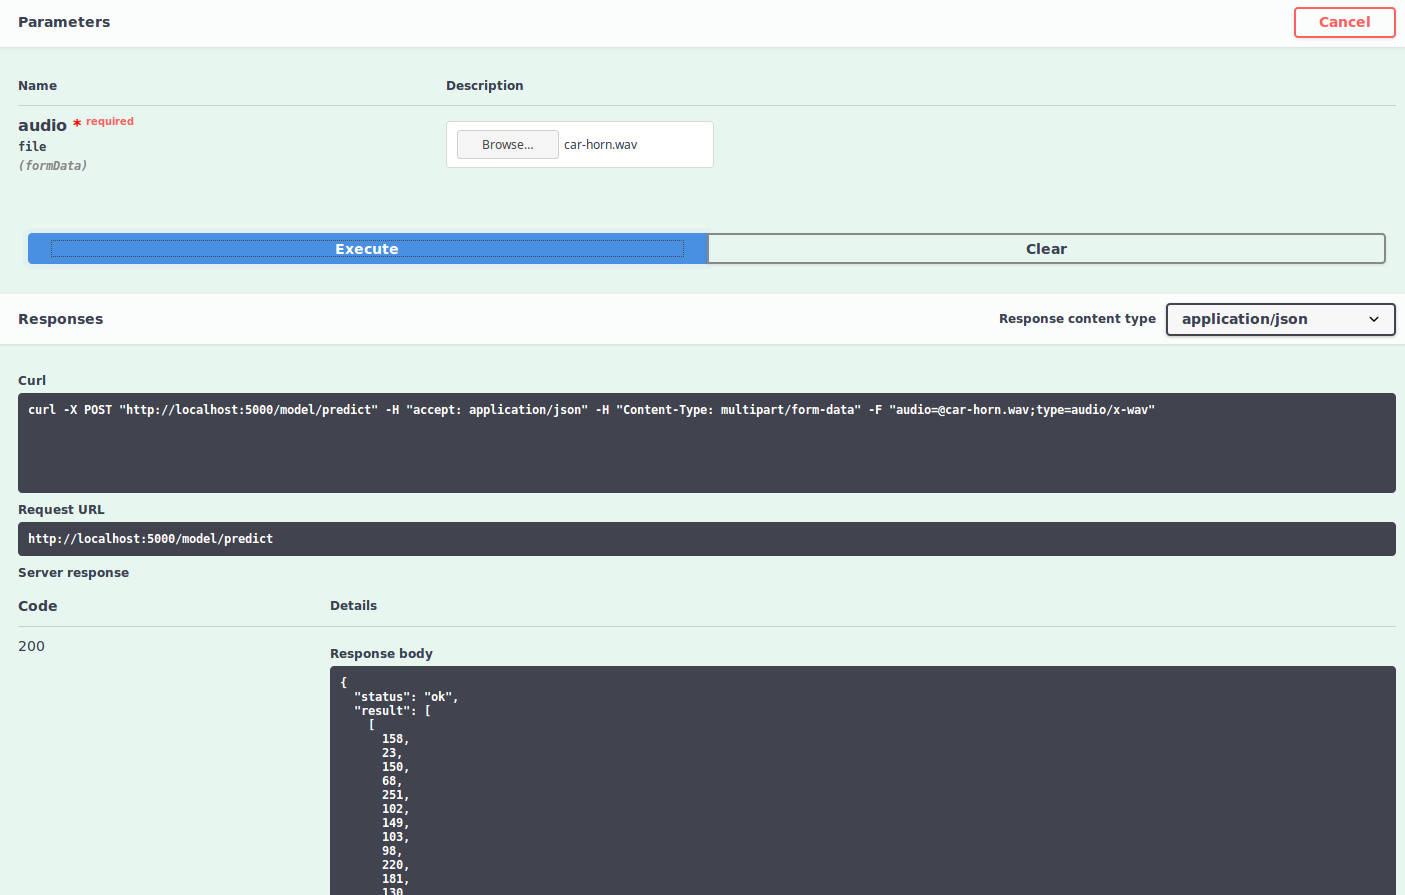
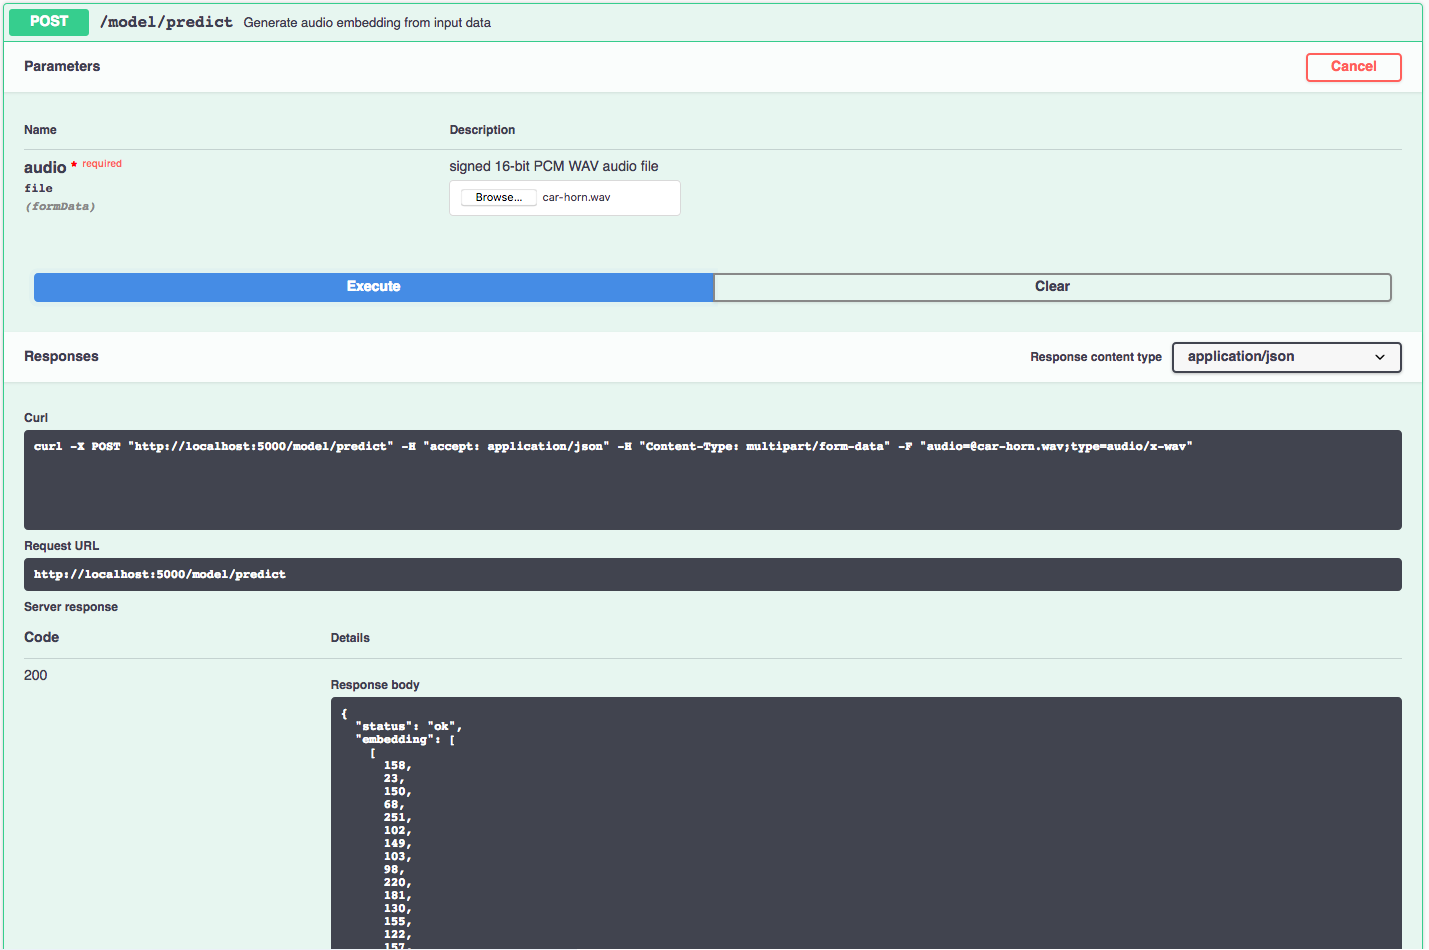
added request param descriptions and added requirements.txt (#15)
* added request param descriptions and added requirements.txt
resolves #10, resolves #12

* clean up swagger output format

* update docs to match new output format

diff --git a/api/model.py b/api/model.py
@@ -1,12 +1,9 @@
 from flask_restplus import Namespace, Resource, fields
 from werkzeug.datastructures import FileStorage
 from werkzeug.exceptions import BadRequest
-
 from config import MODEL_META_DATA
-
 from core.backend import ModelWrapper
 import os
-import numpy as np
 
 api = Namespace('model', description='Model information and inference operations')
 
@@ -26,18 +23,16 @@ class Model(Resource):
         """Return the metadata associated with the model"""
         return MODEL_META_DATA
 
-label_prediction = api.model('LabelPrediction', {
-    'embedding': fields.List(fields.List(fields.Float,required=True))
-})
 
 predict_response = api.model('ModelPredictResponse', {
     'status': fields.String(required=True, description='Response status message'),
-    'predictions': fields.List(fields.Nested(label_prediction), description='Predicted labels and probabilities')
+    'embedding': fields.List(fields.List(fields.Float, required=True, description="Generated embedding"))
 })
 
 # set up parser for audio input data
 audio_parser = api.parser()
-audio_parser.add_argument('audio', type=FileStorage, location='files', required=True)
+audio_parser.add_argument('audio', type=FileStorage, location='files', required=True,
+                          help="signed 16-bit PCM WAV audio file")
 
 
 @api.route('/predict')
@@ -48,7 +43,7 @@ class Predict(Resource):
     @api.expect(audio_parser)
     @api.marshal_with(predict_response)
     def post(self):
-        """Predict audio classes from input data"""
+        """Generate audio embedding from input data"""
         result = {'status': 'error'}
 
         args = audio_parser.parse_args()
@@ -58,7 +53,7 @@ class Predict(Resource):
         if os.path.exists("/audio.wav"):
             os.remove("/audio.wav")
         
-        if('.wav' in str(args['audio'])):
+        if '.wav' in str(args['audio']):
             file = open("/audio.wav", "wb")
             file.write(audio_data)
             file.close()
@@ -67,12 +62,11 @@ class Predict(Resource):
             e.data = {'status': 'error', 'message': 'Invalid file type/extension'}
             raise e
 
-        #Getting the predicions
+        # Getting the predictions
         preds = self.mw.predict("/audio.wav")
         
-        #Aligning the predictions to the required API format
-        label_preds = [{'embedding': preds.tolist()}]
-        result['predictions'] = label_preds
+        # Aligning the predictions to the required API format
+        result['embedding'] = preds.tolist()
         result['status'] = 'ok'
         
         os.remove("/audio.wav")

diff --git a/tests/test.py b/tests/test.py
@@ -17,11 +17,11 @@ def test_response():
 
     assert response['status'] == 'ok'
 
-    assert len(response['predictions'][0]['embedding']) == 4
-    assert len(response['predictions'][0]['embedding'][0]) == 128
-    assert len(response['predictions'][0]['embedding'][1]) == 128
-    assert len(response['predictions'][0]['embedding'][2]) == 128
-    assert len(response['predictions'][0]['embedding'][3]) == 128
+    assert len(response['embedding']) == 4
+    assert len(response['embedding'][0]) == 128
+    assert len(response['embedding'][1]) == 128
+    assert len(response['embedding'][2]) == 128
+    assert len(response['embedding'][3]) == 128
 
 
 if __name__ == '__main__':

diff --git a/README.md b/README.md
@@ -135,7 +135,7 @@ You should see a JSON response like that below:
 ```
 {
   "status": "ok",
-  "result": [
+  "embedding": [
     [
       158,
       23,
